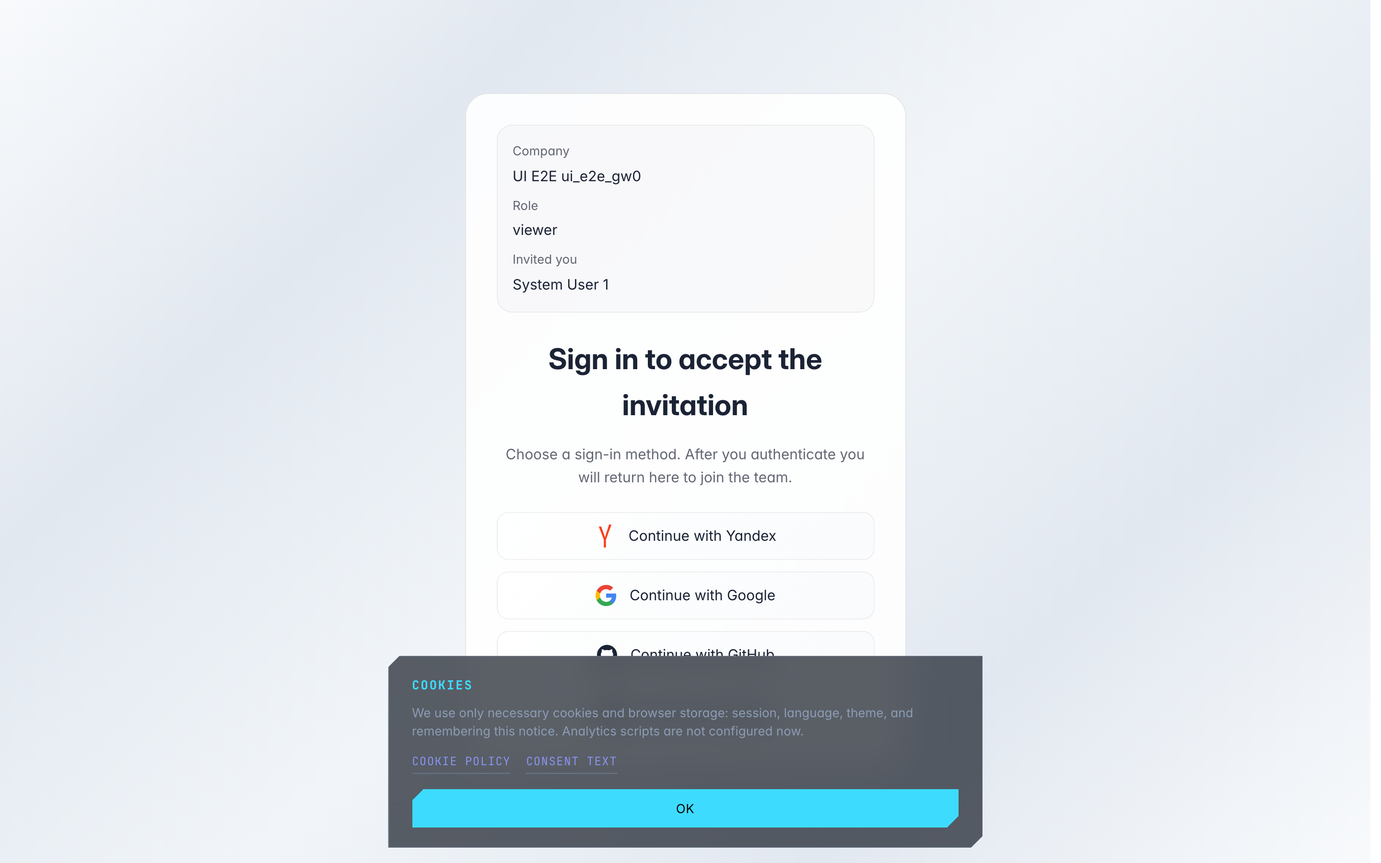
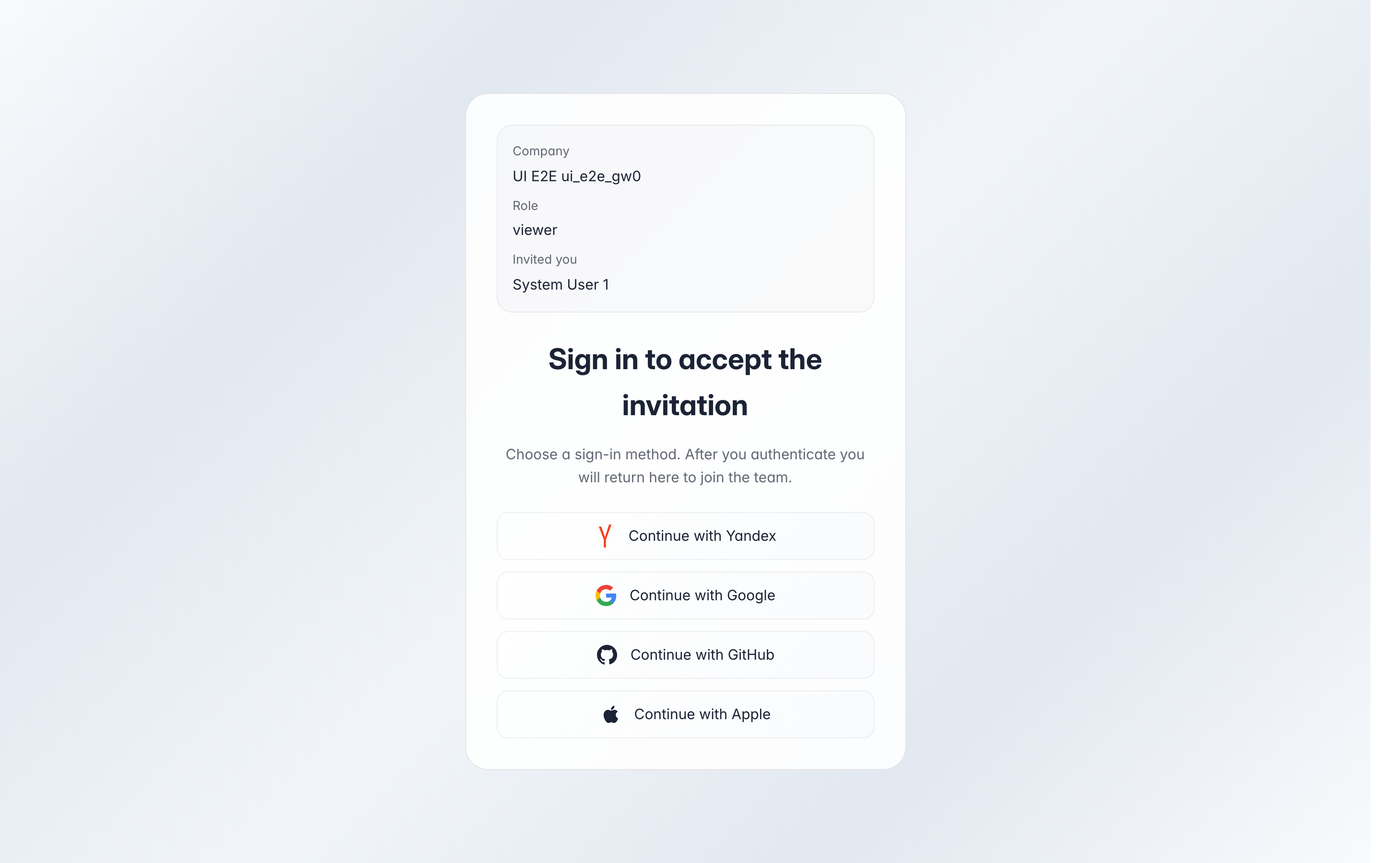
docs: my-tasks + company-settings + support сценарии; фикс invite-флоу на чужом хосте
- worktracker/my-tasks: список, карточка задачи, создание личной задачи
- frontend/company-settings: профиль компании, AI-провайдеры, интеграции
- frontend/support: публичная страница поддержки (mailto-форма)
- join-company: кадры без cookie-баннера, корректные поля формы
- middleware: GET /api/auth/me на хосте чужой компании — identity-read carve-out
  (иначе /join падал 403/500 до рендера приглашения)
- invites accept: already_member-ветка лечит рассинхронизированный roster через
  set_company_member_roles вместо FGA-only sync (500 при повторном accept)

Generated with [Devin](https://devin.ai)

Changed region(s): [[0.2812, 0.7467, 0.7188, 0.9956]]

diff --git a/tests/ui/e2e/test_frontend_doc_console.py b/tests/ui/e2e/test_frontend_doc_console.py
@@ -1753,6 +1753,7 @@ async def test_frontend_join_company(
     await expect(anon_join).to_be_visible(timeout=30_000)
     await expect(anon_join.locator(".invite-preview")).to_be_visible(timeout=30_000)
     await expect(anon_join.locator(".provider-button").first).to_be_visible(timeout=30_000)
+    await _dismiss_cookie_banner(anon)
     await scenario.step(
         "Откройте ссылку-приглашение",
         anon,
@@ -1779,6 +1780,7 @@ async def test_frontend_join_company(
     await expect(member_join).to_be_visible(timeout=30_000)
     await expect(member_join.locator(".logged-in platform-user-chip")).to_be_visible(timeout=30_000)
     await expect(member_join.locator(".btn")).to_be_visible(timeout=30_000)
+    await _dismiss_cookie_banner(member)
     await scenario.step(
         "Проверьте и примите приглашение",
         member,
@@ -1863,7 +1865,7 @@ async def test_frontend_company_settings(
     await expect(page.locator("platform-user button.user-button")).to_be_visible(timeout=30_000)
 
     _ = await page.goto(f"{frontend_ui.origin}/settings", wait_until="domcontentloaded")
-    settings = page.locator("settings-page")
+    settings = page.locator("frontend-settings-page")
     await expect(settings).to_be_visible(timeout=30_000)
     await expect(settings.locator(".info-grid")).to_be_visible(timeout=30_000)
     await _dismiss_cookie_banner(page)
@@ -1995,10 +1997,14 @@ async def test_frontend_support_page(
     )
 
     fields = support.locator("platform-field")
-    await ui_set_platform_field(fields.nth(0), "Анна Смирнова")
-    await ui_set_platform_field(fields.nth(1), "anna@example.com")
+    await ui_set_platform_field(fields.nth(0), "anna@example.com")
     await ui_set_platform_field(
-        fields.nth(2), "Не приходит письмо-приглашение для нового сотрудника"
+        fields.nth(1), "Не приходит письмо-приглашение"
+    )
+    await ui_set_platform_field(
+        fields.nth(2),
+        "Добрый день! Пригласили нового сотрудника Анну, "
+        "но письмо ей не пришло. Помогите, пожалуйста.",
     )
     await scenario.step(
         "Заполните форму обращения",
@@ -2006,14 +2012,14 @@ async def test_frontend_support_page(
         screenshot_name="support-form-filled",
         label_en="Fill in the contact form",
         details=(
-            "**Демонстрация результата.** Укажите имя, почту для ответа "
-            "и опишите вопрос — кнопка отправки откроет готовое письмо "
+            "**Демонстрация результата.** Укажите почту для ответа, "
+            "тему и опишите вопрос — кнопка отправки откроет готовое письмо "
             "в вашей почтовой программе, останется нажать «Отправить».\n\n"
             "**Итог.** Самый быстрый путь — письмо на адрес поддержки "
             "вверху страницы; форма нужна, чтобы ничего не забыть."
         ),
         details_en=(
-            "**Result demonstration.** Enter your name, reply email "
+            "**Result demonstration.** Enter your reply email, subject "
             "and describe the issue — the submit button opens a "
             "ready-made letter in your mail app, just press Send.\n\n"
             "**Summary.** The fastest path is the support address at "

diff --git a/core/middleware/auth/middleware.py b/core/middleware/auth/middleware.py
@@ -310,19 +310,20 @@ class AuthMiddleware(BaseHTTPMiddleware):
             and token_data.company_id != company.company_id
             and extract_subdomain(request.headers.get("host", "")) is not None
         ):
-            if company.company_id not in user.companies:
+            if company.company_id in user.companies:
+                jwt_str, session_td = await rebind_session_to_company(
+                    user=user,
+                    company=company,
+                )
+                request.state.reissue_auth_token = jwt_str
+                request.state.session_token_data = session_td
+                token_data = session_td
+                auth_token = jwt_str
+            elif not self.route_matcher.allows_no_subdomain(request.url.path):
                 raise HTTPException(
                     status_code=403,
                     detail='You do not have access to the company at this address (subdomain).',
                 )
-            jwt_str, session_td = await rebind_session_to_company(
-                user=user,
-                company=company,
-            )
-            request.state.reissue_auth_token = jwt_str
-            request.state.session_token_data = session_td
-            token_data = session_td
-            auth_token = jwt_str
 
         # Синхронизация активной компании (для всех типов контекста)
         if user and company:

diff --git a/apps/frontend/api/invites.py b/apps/frontend/api/invites.py
@@ -19,10 +19,7 @@ from apps.frontend.realtime.company_operations import (
     op_invites_generate,
 )
 from core.context import get_context, require_context
-from core.identity.company_membership import (
-    set_company_member_roles,
-    sync_existing_company_member,
-)
+from core.identity.company_membership import set_company_member_roles
 from core.logging import get_logger
 from core.models.identity_models import Company, User
 from core.namespace import ensure_personal_namespace_for_user
@@ -179,10 +176,12 @@ async def accept_invite(
     if user.user_id in company.members:
         roles_list = list(company.members[user.user_id])
         logger.info("frontend.event", user_id=user.user_id, company_id=company.company_id)
-        await sync_existing_company_member(
+        # Roster может рассинхронизироваться с user.companies (пересид компании,
+        # внешняя мутация) — set_company_member_roles лечит обе стороны и FGA.
+        roles_list = await set_company_member_roles(
             authz=di.authz_service,
-            company_id=company.company_id,
-            user_id=user.user_id,
+            company=company,
+            user=user,
             roles=roles_list,
         )
         new_session_token, _ = await rebind_session_to_company(

diff --git a/core/middleware/auth/company_resolver.py b/core/middleware/auth/company_resolver.py
@@ -22,6 +22,15 @@ _INVITE_ACCEPT_PATHS = frozenset({
     "/frontend/api/invites/accept",
 })
 
+# GET идентичности вошедшего: ответ содержит только данные самого пользователя
+# и его session company — данных host-компании в нём нет. Без этого исключения
+# вошедший пользователь чужой компании не может даже открыть /join: проба
+# auth/me падает 403 до рендера карточки приглашения.
+_IDENTITY_READ_PATHS = frozenset({
+    "/api/auth/me",
+    "/frontend/api/auth/me",
+})
+
 # In-process TTL-кэш для горячих lookup auth middleware.
 # Каждый HTTP-запрос ранее тащил 3 DB-запроса: subdomain->company_id, company,
 # user (для membership). На production это десятки тысяч запросов в секунду,
@@ -182,6 +191,8 @@ class CompanyResolver:
                 company_id=company_id,
                 path=request.url.path,
             )
+            return
+        if request.method == "GET" and request.url.path in _IDENTITY_READ_PATHS:
             return
         logger.warning(
             "auth.company.membership_denied",

diff --git a/tests/ui/e2e/test_worktracker_operators.py b/tests/ui/e2e/test_worktracker_operators.py
@@ -1,4 +1,4 @@
-"""UI E2E сценарии Worktracker: операторский цикл HITL.
+"""UI E2E сценарии Worktracker: операторский цикл HITL и «Мои задачи» сотрудника.
 
 Сквозной пример «Зелёный сад» — см. docs/scenarios/flows/CATALOG.md (блок 4a, B1–B5).
 """
@@ -715,7 +715,7 @@ async def test_worktracker_my_tasks(
     fields = create_modal.locator("platform-field")
     await ui_set_platform_field(fields.nth(0), f"Позвонить поставщику удобрений ({unique_id})")
     await ui_set_platform_field(fields.nth(1), "Уточнить сроки поставки и цены на компост")
-    await create_modal.locator(".header-btn.n").click()
+    await create_modal.locator(".footer-actions .btn.btn-primary").click()
     created_row = my_page.locator("platform-work-item-row").filter(
         has_text="Позвонить поставщику удобрений"
     ).first

diff --git a/tests/ui/e2e/frontend_doc_coverage_matrix.md b/tests/ui/e2e/frontend_doc_coverage_matrix.md
@@ -56,6 +56,9 @@ platform, тег `tools`.
 | 1 | `sign-in` | Вход в платформу | `test_frontend_doc_console.py` | ✅ |
 | 1 | `select-company` | Выбор компании для работы | `test_frontend_doc_console.py` | ✅ |
 | 1 | `invite-team-member` | Пригласить коллегу по ссылке | `test_frontend_doc_console.py` | ✅ |
+| 1 | `join-company` | Вход по приглашению (вход + принятие) | `test_frontend_doc_console.py` | ✅ |
+| 2 | `company-settings` | Настройки компании: имя, бюджет, подключения | `test_frontend_doc_console.py` | ✅ |
+| 2 | `support` | Публичная страница поддержки | `test_frontend_doc_console.py` | ✅ |
 | 2 | `search-everything` | Поиск встроенным движком | `test_frontend_doc_console.py` | ✅ |
 | 2 | `access-explorer` | Кто и почему имеет доступ | `test_frontend_doc_console.py` | ✅ |
 | 3 | `company-variables` | Переменные компании | `test_frontend_doc_console.py` | ✅ |
@@ -73,7 +76,10 @@ platform, тег `tools`.
 
 ## Покрытие вне этой матрицы
 
-- Все страницы из таблицы поверхностей покрыты сценариями выше; `join` — отдельный анонимный маршрут принятия приглашения, документируется со стороны invites.
+- Все страницы из таблицы поверхностей покрыты сценариями выше. `join` покрыт
+  `join-company`: аноним видит превью и OAuth-кнопки, вошедший — кнопку принятия.
+- Worktracker `my-tasks` («Мои задачи» сотрудника) покрыт в
+  `test_worktracker_operators.py`, сервис `worktracker`, тег `general`.
 - Access: OpenFGA-грант сеется напрямую через `authz_service.write`; фильтр чипа `platform_namespace` оставляет в кадре только понятные права на пространства (в общей БД копятся технические гранты ящиков/документов).
 - Voice: карточки только STT/TTS (`KINDS`), VAD на странице нет; словарь произношения — реальные правила + dry-run подмена текста.
 - Login/select-company: cookie-баннер на /login лежит под auth-модалкой — снятие через `dispatch_event('click')` на кнопке «OK»; PWA-промпт скрыт состоянием «вернувшийся пользователь» (`localStorage` dismissed-ключ).

diff --git a/docs/scenarios/frontend/general/company-settings/README.md b/docs/scenarios/frontend/general/company-settings/README.md
@@ -1,0 +1,27 @@
+# Настройки компании: имя, бюджет и подключения
+
+**Для чего:** страница «Настройки» собирает всё про компанию: как она называется, сколько может тратить и какие сервисы подключены.
+
+**Какие проблемы решает:** владельцу и администратору не нужно искать параметры по разным разделам — профиль компании, AI-провайдеры и интеграции на одной странице.
+
+**Результат:** вы видите данные компании, понимаете, где менять название и месячный бюджет, и где подключать сервисы.
+
+## Шаг 1. Откройте «Настройки»
+
+Раздел «Настройки» в консоли компании. Первый экран — профиль: название, тариф, владелец и поле месячного бюджета — предел трат на платные функции. Вкладки сверху ведут к остальным разделам.
+
+![Откройте «Настройки»](company-settings--01-settings-company-tab.png)
+
+## Шаг 2. Посмотрите AI-провайдеров
+
+Вкладка «AI-провайдеры» показывает, какие умные функции включены: чат, поиск, распознавание речи. По умолчанию работают настройки платформы — менять их нужно только для своих ключей и моделей.
+
+![Посмотрите AI-провайдеров](company-settings--02-settings-ai-providers.png)
+
+## Шаг 3. Откройте вкладку «Интеграции»
+
+**Демонстрация результата.** «Интеграции» — каталог подключений компании: почта, календарь, внешние сервисы. Кнопка «Подключить» ведёт в нужный раздел.
+
+**Итог.** Теперь вы знаете, где лежат настройки компании: профиль и бюджет — на первой вкладке, умные функции — в AI-провайдерах, подключения — в интеграциях.
+
+![Откройте вкладку «Интеграции»](company-settings--03-settings-integrations.png)

diff --git a/docs/scenarios/frontend/general/join-company/README.md b/docs/scenarios/frontend/general/join-company/README.md
@@ -1,0 +1,27 @@
+# Войти в компанию по приглашению
+
+**Для чего:** коллега прислал вам ссылку-приглашение — по ней вы попадаете в его компанию без поиска и регистрации вручную.
+
+**Какие проблемы решает:** не нужно знать адрес компании или просить доступ у администратора: ссылка сама показывает, куда вы приглашены и на какую роль.
+
+**Результат:** вы принимаете приглашение и компания появляется в вашем списке — можно переключиться и работать.
+
+## Шаг 1. Откройте ссылку-приглашение
+
+Ссылка открывает карточку приглашения: видно название компании, вашу роль и кто пригласил. Если вы ещё не вошли на платформу — выберите привычный сервис ниже и подтвердите вход; страница сама вернёт вас к приглашению.
+
+![Откройте ссылку-приглашение](join-company--01-join-invite-preview.png)
+
+## Шаг 2. Проверьте и примите приглашение
+
+Уже вошли? Страница показывает, под какой учётной записью вы присоединитесь, и кнопку принятия. Проверьте компанию и роль в карточке выше — и нажмите «Присоединиться».
+
+![Проверьте и примите приглашение](join-company--02-join-accept-card.png)
+
+## Шаг 3. Компания появилась в вашем списке
+
+**Демонстрация результата.** Приглашение принято — компания добавлена в ваш список. Переключиться на неё можно через страницу выбора компании или меню аккаунта.
+
+**Итог.** Весь путь — ссылка, вход, «Присоединиться». Отдельных паролей и заявок администратору не нужно.
+
+![Компания появилась в вашем списке](join-company--03-join-accepted.png)

diff --git a/docs/scenarios/worktracker/general/my-tasks/README.md b/docs/scenarios/worktracker/general/my-tasks/README.md
@@ -1,0 +1,27 @@
+# Мои задачи: всё, что назначено мне
+
+**Для чего:** страница «Мои задачи» показывает список дел, которые назначили лично вам — коллега, руководитель или агент платформы.
+
+**Какие проблемы решает:** не нужно спрашивать в чате, что на вас висит: весь список в одном месте, а свою задачу можно добавить прямо здесь.
+
+**Результат:** вы видите свои задачи, открываете любую для деталей и создаёте личную задачу за минуту.
+
+## Шаг 1. Откройте «Мои задачи»
+
+В сервисе задач в боковом меню выберите «Мои задачи». Здесь только то, что назначено лично вам — без чужих поручений и общих очередей.
+
+![Откройте «Мои задачи»](my-tasks--01-my-tasks-list.png)
+
+## Шаг 2. Откройте задачу для деталей
+
+Нажатие на строку открывает карточку задачи справа: описание, статус и обсуждение. Здесь же задачу можно взять в работу или закрыть.
+
+![Откройте задачу для деталей](my-tasks--02-my-task-detail.png)
+
+## Шаг 3. Создайте личную задачу
+
+**Демонстрация результата.** Кнопка «+» в шапке создаёт задачу, которая сразу назначается вам и появляется в списке. Так удобно фиксировать обещания себе: позвонить, проверить, отправить.
+
+**Итог.** Теперь вы знаете, где живут ваши задачи: список «Мои задачи» показывает поручения и позволяет добавить своё за секунду.
+
+![Создайте личную задачу](my-tasks--03-my-task-created.png)

diff --git a/docs/scenarios/frontend/general/support/README.md b/docs/scenarios/frontend/general/support/README.md
@@ -1,0 +1,21 @@
+# Написать в поддержку
+
+**Для чего:** страница поддержки помогает задать вопрос команде платформы — по почте или через форму.
+
+**Какие проблемы решает:** не нужно искать контакты: адрес и форма собраны на одной странице, доступной даже без входа.
+
+**Результат:** вы знаете, куда писать при вопросах и сбоях — форма откроет письмо в вашей почтовой программе.
+
+## Шаг 1. Откройте страницу поддержки
+
+Страница поддержки доступна по прямой ссылке даже без входа в консоль. Вверху — почта команды, ниже — форма обращения.
+
+![Откройте страницу поддержки](support--01-support-page.png)
+
+## Шаг 2. Заполните форму обращения
+
+**Демонстрация результата.** Укажите почту для ответа, тему и опишите вопрос — кнопка отправки откроет готовое письмо в вашей почтовой программе, останется нажать «Отправить».
+
+**Итог.** Самый быстрый путь — письмо на адрес поддержки вверху страницы; форма нужна, чтобы ничего не забыть.
+
+![Заполните форму обращения](support--02-support-form-filled.png)

diff --git a/docs/scenarios/frontend/general/company-settings/README.en.md b/docs/scenarios/frontend/general/company-settings/README.en.md
@@ -1,0 +1,27 @@
+# Company settings: name, budget and connections
+
+**What for:** the Settings page gathers everything about the company: its name, how much it may spend and which services are connected.
+
+**Problems solved:** the owner and admins don't need to hunt options across sections — company profile, AI providers and integrations live on one page.
+
+**Result:** you see the company data, know where to change the name and monthly budget, and where to connect services.
+
+## Step 1. Open Settings
+
+The Settings section of the company console. The first screen is the profile: name, plan, owner and the monthly budget field — the spending cap for paid features. The tabs above lead to the remaining sections.
+
+![Open Settings](company-settings--01-settings-company-tab.png)
+
+## Step 2. Review AI providers
+
+The AI providers tab shows which smart features are on: chat, search, speech recognition. Platform defaults work out of the box — change them only for your own keys and models.
+
+![Review AI providers](company-settings--02-settings-ai-providers.png)
+
+## Step 3. Open the Integrations tab
+
+**Result demonstration.** Integrations is the company's connections catalogue: mail, calendar, external services. The Connect button leads to the right section.
+
+**Summary.** Now you know where company settings live: profile and budget on the first tab, smart features in AI providers, connections in integrations.
+
+![Open the Integrations tab](company-settings--03-settings-integrations.png)

diff --git a/docs/scenarios/frontend/general/join-company/README.en.md b/docs/scenarios/frontend/general/join-company/README.en.md
@@ -1,0 +1,27 @@
+# Join a company via an invite link
+
+**What for:** a colleague sent you an invite link — it takes you into their company with no manual search or signup.
+
+**Problems solved:** no need to know the company address or ask an admin for access: the link itself shows where you are invited and in which role.
+
+**Result:** you accept the invite and the company appears in your list — switch to it and start working.
+
+## Step 1. Open the invite link
+
+The link opens an invite card: the company name, your role and who invited you. Not signed in yet? Pick a familiar service below and confirm — the page brings you back to the invite by itself.
+
+![Open the invite link](join-company--01-join-invite-preview.png)
+
+## Step 2. Review and accept the invite
+
+Already signed in? The page shows which account you will join under and the accept button. Check the company and role in the card above — then press Join.
+
+![Review and accept the invite](join-company--02-join-accept-card.png)
+
+## Step 3. The company is now in your list
+
+**Result demonstration.** The invite is accepted — the company is added to your list. Switch to it via the company picker or the account menu.
+
+**Summary.** The whole path is: link, sign in, Join. No separate passwords or admin requests needed.
+
+![The company is now in your list](join-company--03-join-accepted.png)
